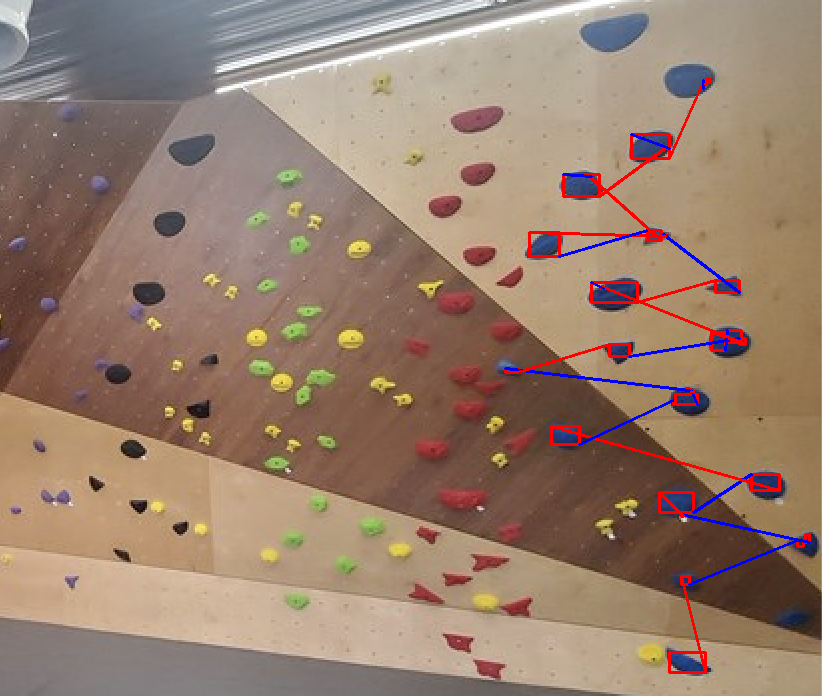
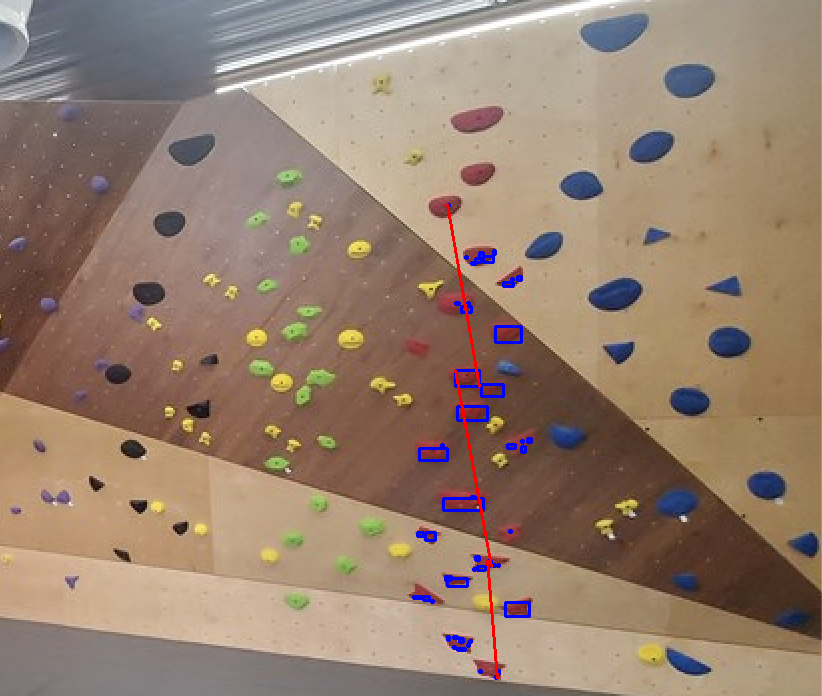
Working BFS path creation

diff --git a/Climb_GUI/Climb_GUI/lib/path_calc.py b/Climb_GUI/Climb_GUI/lib/path_calc.py
@@ -2,102 +2,88 @@ import math
 import sys
 from queue import Queue
 
+class Vertex:
+    def __init__(self, value):
+        self.value = value
+        self.color = "White"
+        self.distance = -1
+        self.predecessor = None
+
 def makeVertices(bounding_boxes):
     # bounding_boxes = [((x,y), (x,y)), ((x,y), (x,y)), ...]
-    # vertices = [(((x,y), (x,y)), string,      int, graphnodes[x]), ...]
-    # vertices = [(    value     ,  color, distance,   predecessor), ...]
-    # bounding_boxes list of tuples with two tuples with x & y
+    # vertices = [(((x,y), (x,y)),  color, distance,   predecessor), ...]
     vertices = {}
     for node in bounding_boxes:
-        vertices[node] = (node, "White", None, None)
+        vertices[node] = Vertex(node)
         
     return vertices
 
-def inRadius(curr, bounding_boxes):
+def BFS(start, vertices, adjList):
+    for vert in vertices.values():
+        vert.color = "White"
+        vert.distance = sys.maxsize
+        vert.predecessor = None
+
+    vertices[start].color = "Gray"
+    vertices[start].distance = 0
+    vertices[start].predecessor = None
+
+    q = Queue()
+    q.put(start)
+
+    visited = []
+
+    while not q.empty():
+        u = q.get()
+        visited.append(u)
+
+        for adj in adjList[u]:
+            ad = vertices[adj]
+            if ad.color == "White":
+                ad.color = "Gray"
+                ad.distance = vertices[u].distance + 1
+                ad.predecessor = vertices[u]
+                q.put(adj)
+
+        vertices[u].color = "Black"
+
+    return visited
+
+def inRadius(curr, bounding_boxes, vertices, radius):
     lis = []
-    # iterating through bounding boxes, 
-    # if distance between current and any box is close enough, add to list
-    for box in bounding_boxes:
-        if(dist(bounding_boxes[curr][1] - box[0]) < 100):
-            lis.append(box)
-    # lis = [((x,y), (x,y)), ((x,y), (x,y))]
+    for i in range(len(bounding_boxes)):
+        # 100 is hard coded value, change to something else
+        if dist(vertices[curr].value[1], bounding_boxes[i][0]) < radius:
+            lis.append(bounding_boxes[i])
     return lis
-           
-# distance formula
+
 def dist(curr, next):     
     x = next[0] - curr[0]
     y = next[1] - curr[1]
-    t1 = math.pow(x, 2)
-    t2 = math.pow(y, 2)
-    dist = math.sqrt(t1 + t2)
-    
-    return dist
+    return math.sqrt(math.pow(x, 2) + math.pow(y, 2))
 
-def makeAdjList(bounding_boxes):
-    # adj list should be index of node as key, 
-    # then list of tuples after which are the connected nodes
-    # map<key, set<tuple<tuple>>>
-    # each key is assoc. with a set of tuples 
-    # (bottom left corner of box and top right corner of box)
-    # each item in the tuple is a coordinate, containing x & y coords of the point
-    adjList = {}
+def makeAdjList(bounding_boxes, vertices, radius):
     # adjlist = {
     #            key1: [((x,y), (x,y)), ((x,y), (x,y))]
     #            key2: [((x,y), (x,y)), ((x,y), (x,y))]
     #           }
-    # iterating through bounding boxes, if key doesn't exist, add it
-    # append the list for the specific key to map to the key
-    # list for key contains tuple with two tuples
-    
+    adjList = {}
     for key in bounding_boxes:
-        if(key not in adjList):
-            adjList[key] = []
-        adjList[key].append(inRadius(key, bounding_boxes))
-    
+        adjList[key] = []
+        adjList[key].extend(inRadius(key, bounding_boxes, vertices, radius))
     return adjList
 
-# start is starting coordinates (current node)
-def BFS(start, vertices, adjList):
-    for vert in vertices:
-        vert[0][1] = "White"
-        vert[0][2] = sys.maxsize
-        vert[0][3] = None
+def shortestPath(start, end, bounding_boxes, radius):
+    vertices = makeVertices(bounding_boxes)
+    adjList = makeAdjList(bounding_boxes, vertices, radius)
+    BFS(start, vertices, adjList)
 
-    vertices[start][1] = "Gray"
-    vertices[start][2] = 0
-    vertices[start][3] = None
-    
-    q = Queue()
-    q.push((start, "White", -1, None))
+    path = []
+    current_vertex = end
 
-    visited = list()
+    while current_vertex != start:
+        path.insert(0, current_vertex)
+        current_vertex = vertices[current_vertex].predecessor.value
 
-    while(not q.empty()):
-        u = q.front()
-        q.pop()
-        visited.append(u[0])
-        
-        for adj in adjList[u[0]]:
-            ad = vertices[adj]
-            if(ad[1] == "White"):
-                ad[1] = "Gray"
-                ad[2] = u[2] + 1
-                ad[3] = u[0]
-                q.push(adj)
-
-        u[1] = "Black"
-
-    return visited
-
-def shortestPath(start, end, vertices):
-    BFS(start)
-
-    pathLength = 0
-    vertex = end
-
-    while (vertex != start):
-        v = vertices[vertex][3]
-        vertex = v[0]
-        pathLength = pathLength + 1
-
-    return pathLength;      
+    path.insert(0, start)
+    return path

diff --git a/Climb_GUI/Climb_GUI/pages/start.py b/Climb_GUI/Climb_GUI/pages/start.py
@@ -8,6 +8,7 @@ import numpy as np
 import cv2 as cv
 import asyncio
 from datetime import datetime
+from Climb_GUI.lib.path_calc import shortestPath
 
 def strToColor(color):
     color = color.lower()
@@ -62,13 +63,28 @@ def colors(img_path, chosenColor, name):
                 cv.rectangle(img_marked, (x, y), (x+z,y+a), strToColor(chosenColor), 2) #Green bound box
                 bounding_boxes.append(((x, y), (x + z, y + a)))  # Store bounding box coordinates
 
-    for i in range(len(bounding_boxes) - 1):
-        if(i % 2 == 0):
-            cv.line(img_marked, bounding_boxes[i][1], bounding_boxes[i + 1][0], strToColor(chosenColor), 2)
-        elif(i % 2 != 0 and chosenColor != "blue"):
-            cv.line(img_marked, bounding_boxes[i][1], bounding_boxes[i + 1][0], strToColor("blue"), 2)
-        elif(i % 2 != 0 and chosenColor == "blue"):
-            cv.line(img_marked, bounding_boxes[i][1], bounding_boxes[i + 1][0], strToColor("red"), 2)
+    # for i in range(len(bounding_boxes) - 1):
+    #     if(i % 2 == 0):
+    #         cv.line(img_marked, bounding_boxes[i][1], bounding_boxes[i + 1][0], strToColor(chosenColor), 2)
+    #     elif(i % 2 != 0 and chosenColor != "blue"):
+    #         cv.line(img_marked, bounding_boxes[i][1], bounding_boxes[i + 1][0], strToColor("blue"), 2)
+    #     elif(i % 2 != 0 and chosenColor == "blue"):
+    #         cv.line(img_marked, bounding_boxes[i][1], bounding_boxes[i + 1][0], strToColor("red"), 2)
+    
+    path = shortestPath(bounding_boxes[0], bounding_boxes[len(bounding_boxes)-1], bounding_boxes, 300)
+    path1 = shortestPath(bounding_boxes[1], bounding_boxes[len(bounding_boxes)-1], bounding_boxes, 250)
+    path2 = shortestPath(bounding_boxes[2], bounding_boxes[len(bounding_boxes)-1], bounding_boxes, 200)
+    path3 = shortestPath(bounding_boxes[3], bounding_boxes[len(bounding_boxes)-1], bounding_boxes, 150)
+    
+    for i in range(len(path)-1):
+        cv.line(img_marked, path[i][1], path[i+1][0], strToColor("blue"), 2)
+    for i in range(len(path1)-1):
+        cv.line(img_marked, path1[i][1], path1[i+1][0], strToColor("red"), 2)
+    for i in range(len(path2)-1):
+        cv.line(img_marked, path2[i][1], path2[i+1][0], strToColor("green"), 2)
+    for i in range(len(path3)-1):
+        cv.line(img_marked, path3[i][1], path3[i+1][0], strToColor("yellow"), 2)
+
         
     cv.imwrite(f"assets/output_{str(datetime.now().minute)+'_'+name}", img_marked)
     
